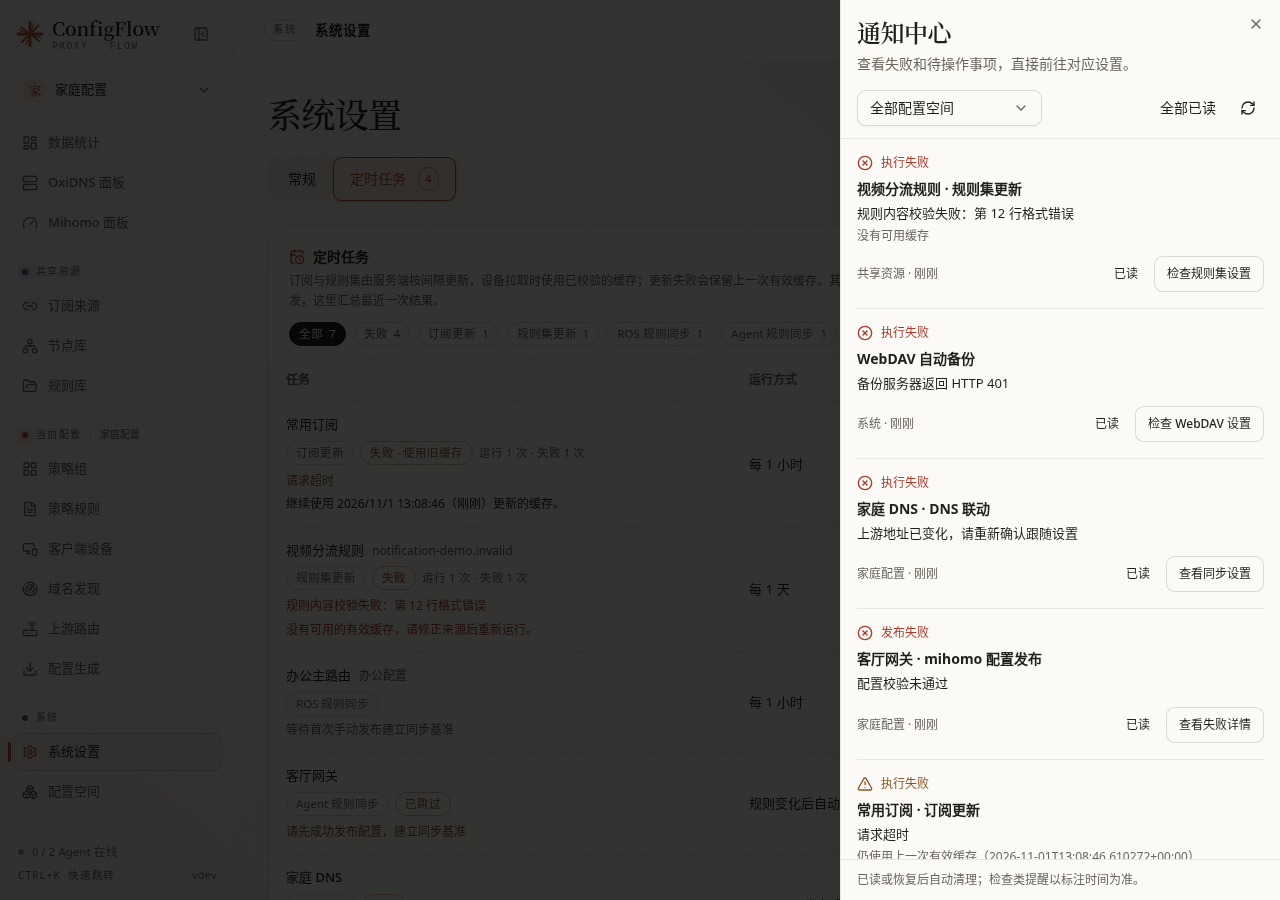
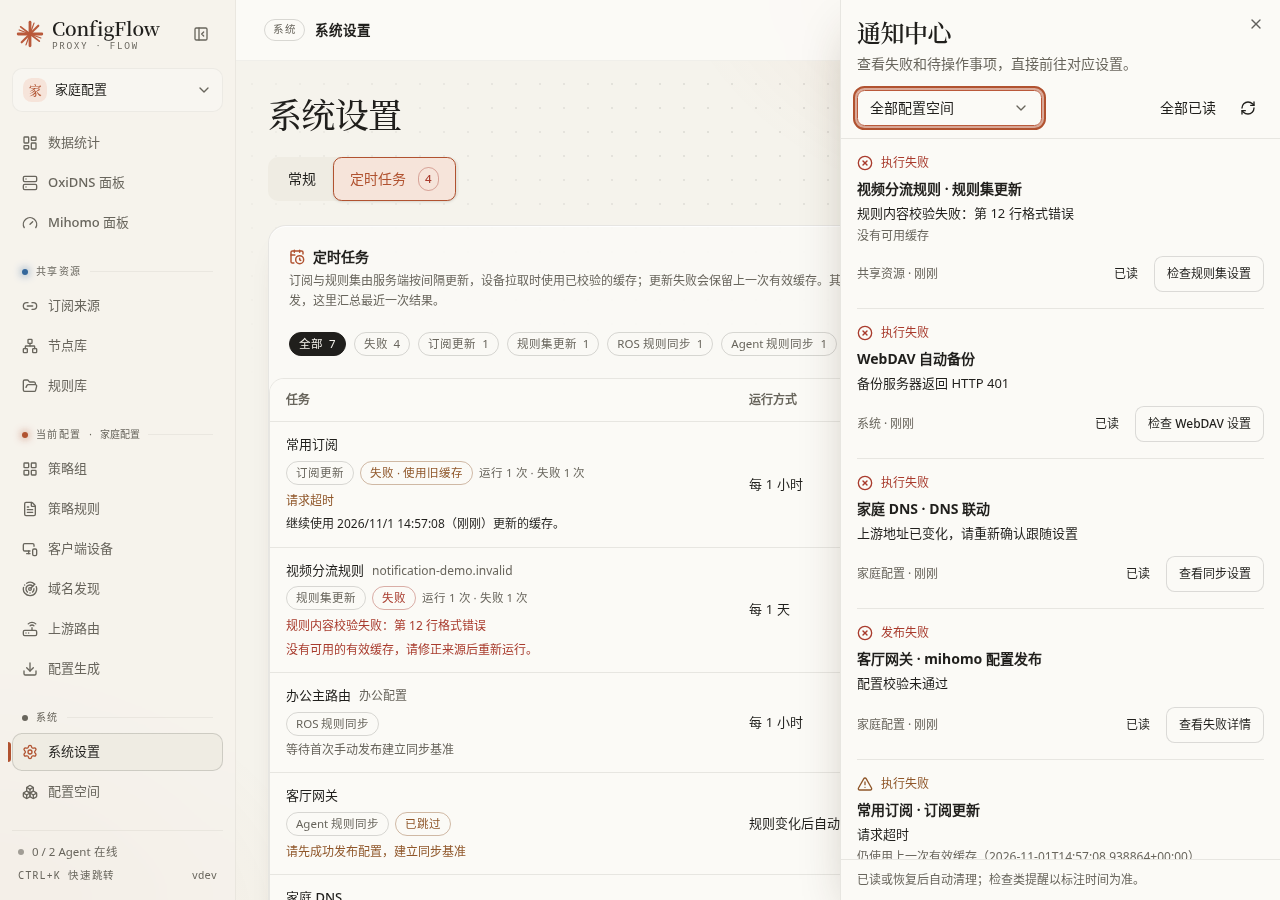
fix(notifications): soften drawer motion and sequence destination overlays

diff --git a/frontend/src/components/shell/NotificationCenter.vue b/frontend/src/components/shell/NotificationCenter.vue
@@ -26,6 +26,7 @@ const clock = ref(Date.now())
 let timer: ReturnType<typeof setInterval> | undefined
 let controller: AbortController | undefined
 let disposed = false
+let destination: NotificationItem | undefined
 const acknowledged = new Map<string, string>()
 const scoped = computed(() => items.value.filter(item => scope.value === 'all' || item.scope !== 'profile' || item.profile_id === scope.value))
 const scopeLabel = (item: NotificationItem) => item.scope === 'shared' ? '共享资源' : item.scope === 'system' ? '系统' : item.profile_name || item.profile_id
@@ -69,11 +70,20 @@ async function read(rows: NotificationItem[]) {
   finally { if (!disposed) reading.value = false }
 }
 const paths = new Set(['/subscriptions', '/rule-library', '/agents', '/routers', '/system-settings'])
-async function go(item: NotificationItem) {
+function go(item: NotificationItem) {
   if (navigating.value || !paths.has(item.target.path)) return
   navigating.value = true
+  destination = item
   open.value = false
+}
+async function followDestination() {
+  const item = destination
+  if (!item) return
+  destination = undefined
+  // Reka emits closeAutoFocus after the exit animation. Let the old dialog
+  // unmount before navigation mounts another overlay or focuses its target.
   await nextTick()
+  if (disposed) return
   try {
     if (!canReloadPage()) {
       notify.warning('请先保存或关闭当前编辑窗口，再打开通知中的设置。')
@@ -103,7 +113,7 @@ onUnmounted(() => { disposed = true; controller?.abort(); clearInterval(timer); 
         <span v-else-if="error" class="absolute right-0 top-0 text-xs text-warning-accent" aria-hidden="true">!</span>
       </Button>
     </SheetTrigger>
-    <SheetContent class="w-full gap-0 bg-card sm:max-w-[440px] max-sm:[&>button]:size-11 max-sm:[&>button]:right-2 max-sm:[&>button]:top-2 max-sm:[&>button]:grid max-sm:[&>button]:place-items-center" data-notifications-panel>
+    <SheetContent overlay-class="bg-transparent" class="w-full gap-0 bg-card shadow-overlay sm:max-w-[440px] transition-none ease-(--ease-flow) data-[state=open]:duration-200 data-[state=closed]:duration-150 data-[state=open]:fade-in-0 data-[state=closed]:fade-out-0 data-[state=open]:slide-in-from-right-3 data-[state=closed]:slide-out-to-right-2 max-sm:[&>button]:size-11 max-sm:[&>button]:right-2 max-sm:[&>button]:top-2 max-sm:[&>button]:grid max-sm:[&>button]:place-items-center" data-notifications-panel @close-auto-focus="followDestination">
       <SheetHeader class="shrink-0 pr-12">
         <SheetTitle class="font-display text-2xl">通知中心</SheetTitle>
         <SheetDescription>查看失败和待操作事项，直接前往对应设置。</SheetDescription>

diff --git a/frontend/src/components/ui/sheet/SheetContent.vue b/frontend/src/components/ui/sheet/SheetContent.vue
@@ -15,6 +15,7 @@ import SheetOverlay from "./SheetOverlay.vue"
 
 interface SheetContentProps extends DialogContentProps {
   class?: HTMLAttributes["class"]
+  overlayClass?: HTMLAttributes["class"]
   side?: "top" | "right" | "bottom" | "left"
   showCloseButton?: boolean
 }
@@ -29,7 +30,7 @@ const props = withDefaults(defineProps<SheetContentProps>(), {
 })
 const emits = defineEmits<DialogContentEmits>()
 
-const delegatedProps = reactiveOmit(props, "class", "side", "showCloseButton")
+const delegatedProps = reactiveOmit(props, "class", "overlayClass", "side", "showCloseButton")
 
 const forwarded = useForwardPropsEmits(delegatedProps, emits)
 
@@ -41,7 +42,7 @@ function onOpenAutoFocus(event: Event) {
 
 <template>
   <DialogPortal>
-    <SheetOverlay />
+    <SheetOverlay :class="props.overlayClass" />
     <DialogContent
       data-slot="sheet-content"
       :class="cn(

diff --git a/doc/manual/notifications.md b/doc/manual/notifications.md
@@ -2,7 +2,7 @@
 
 [文档首页](../README.md)
 
-入口：任意页面顶栏的 **铃铛**。数字表示当前未读通知数，桌面打开右侧面板，手机使用全屏面板。
+入口：任意页面顶栏的 **铃铛**。数字表示当前未读通知数，桌面打开右侧面板，手机使用全屏面板。打开、关闭时保持背景页面原有亮度；开启动效时面板轻微淡入淡出，选择静止或系统要求减少动效时立即显示。点击外部、关闭按钮或按 Esc 可关闭。点击通知中的处理入口后，先退出通知面板，再打开对应设置。
 
 ![通知中心深色界面](../img/guide/notifications-dark.png)
 
